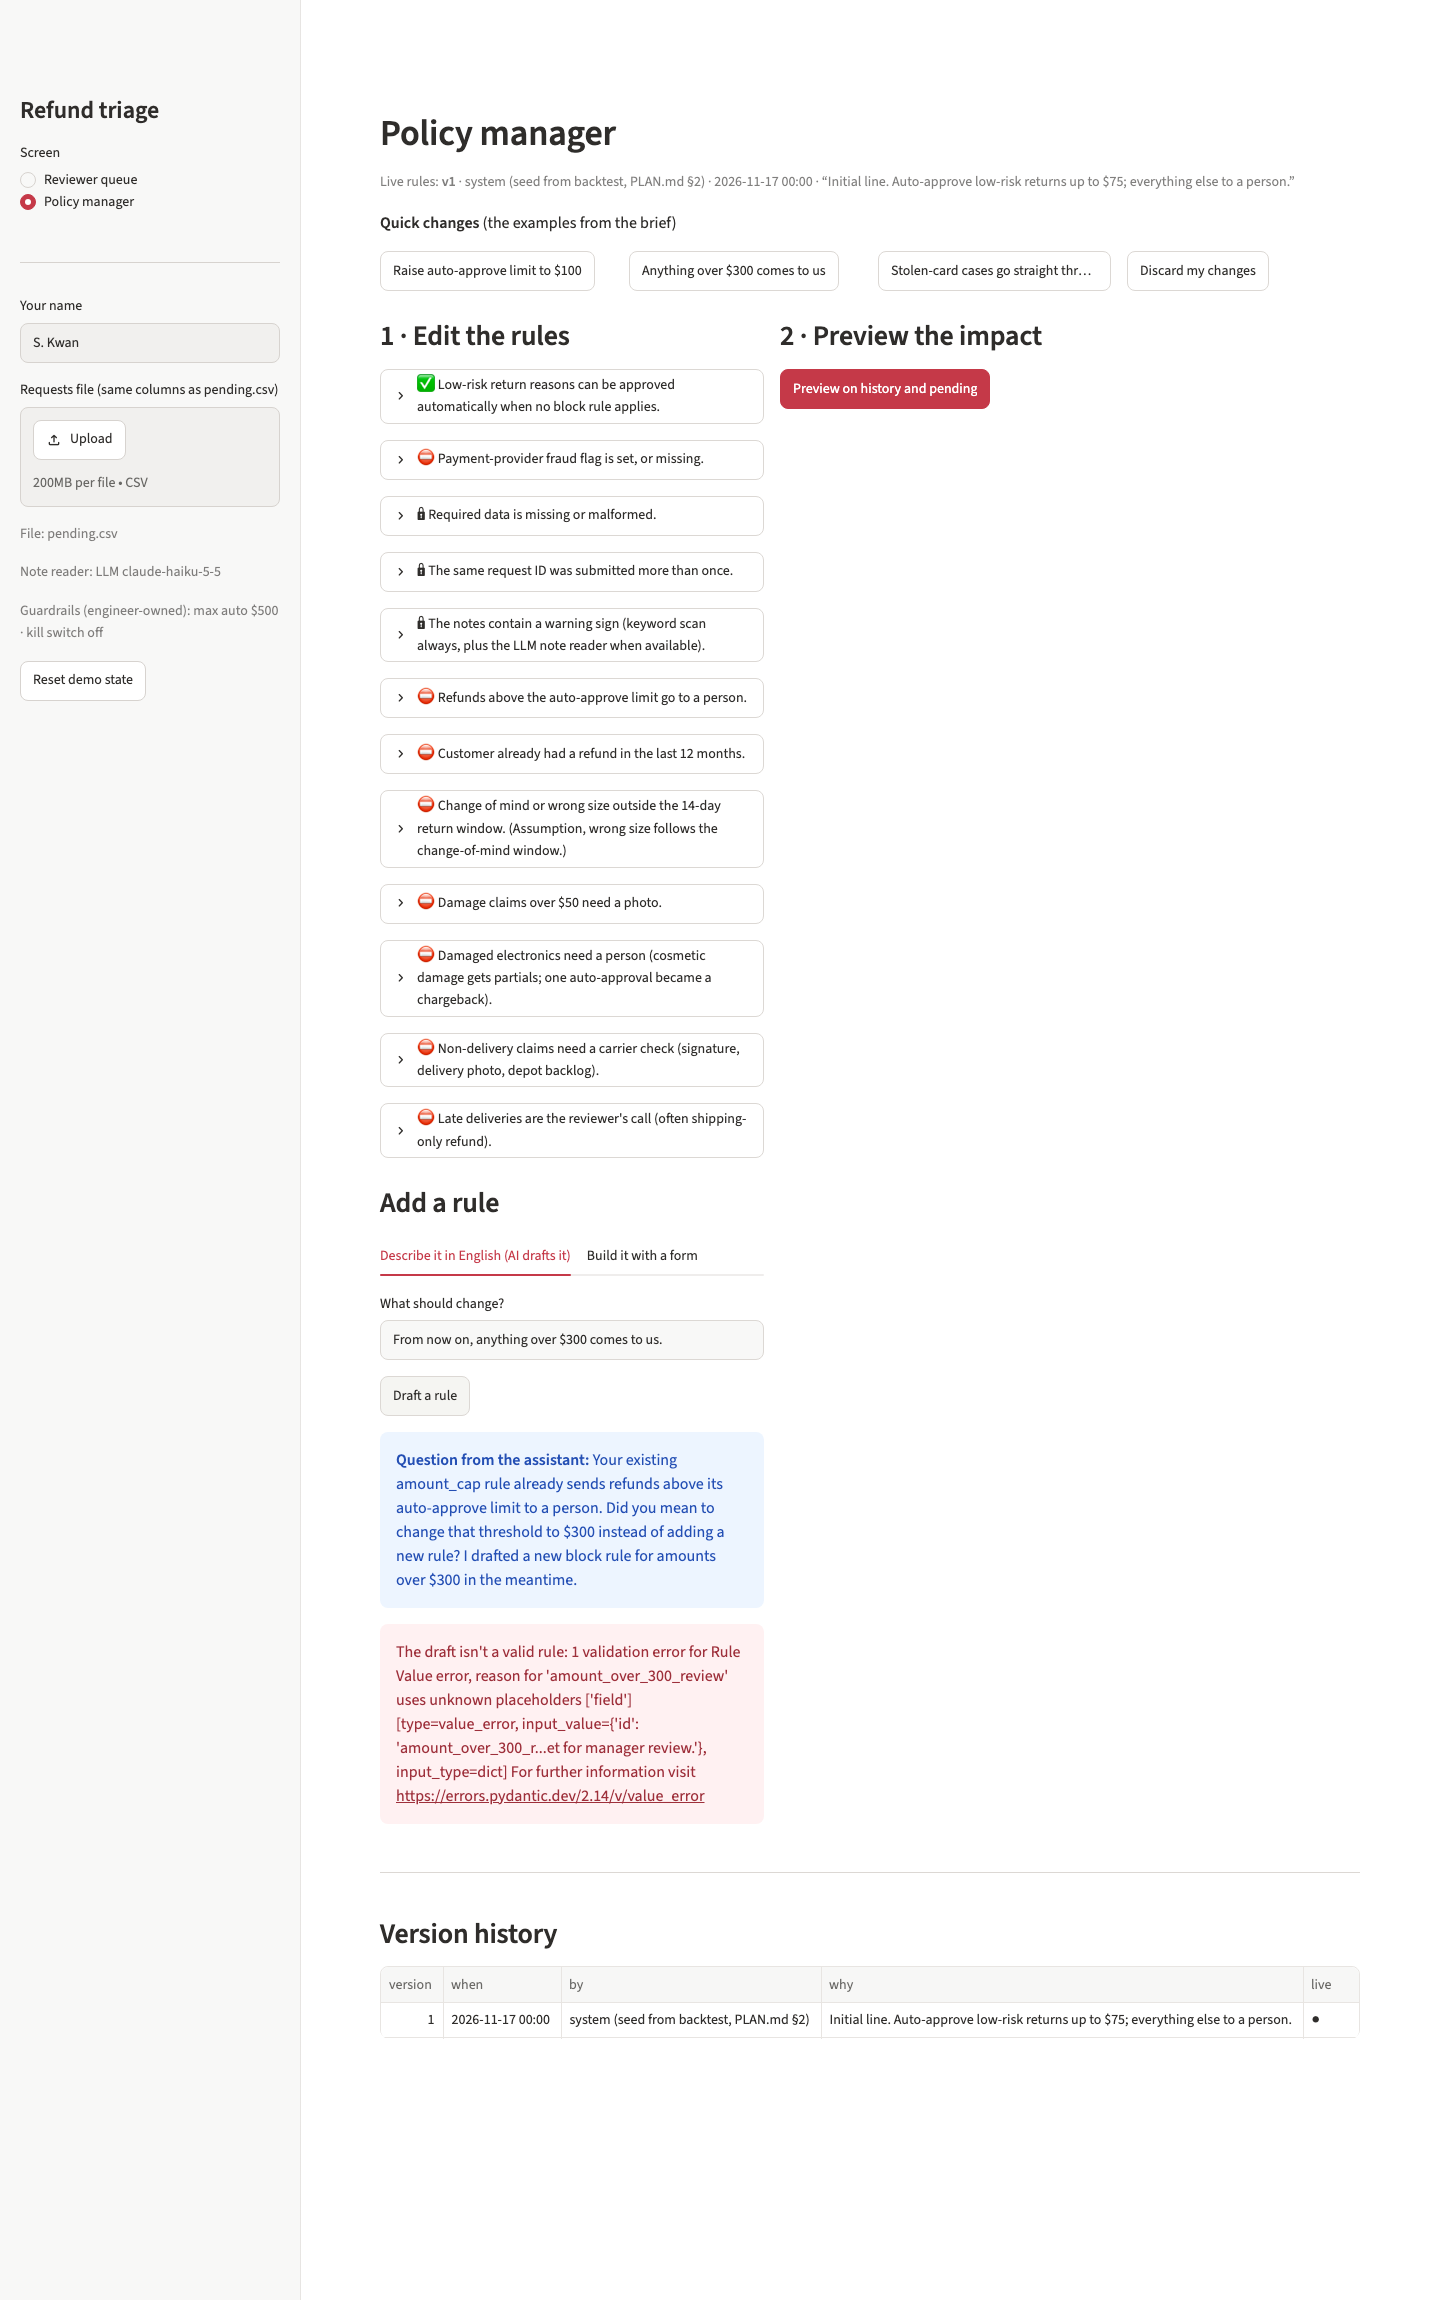
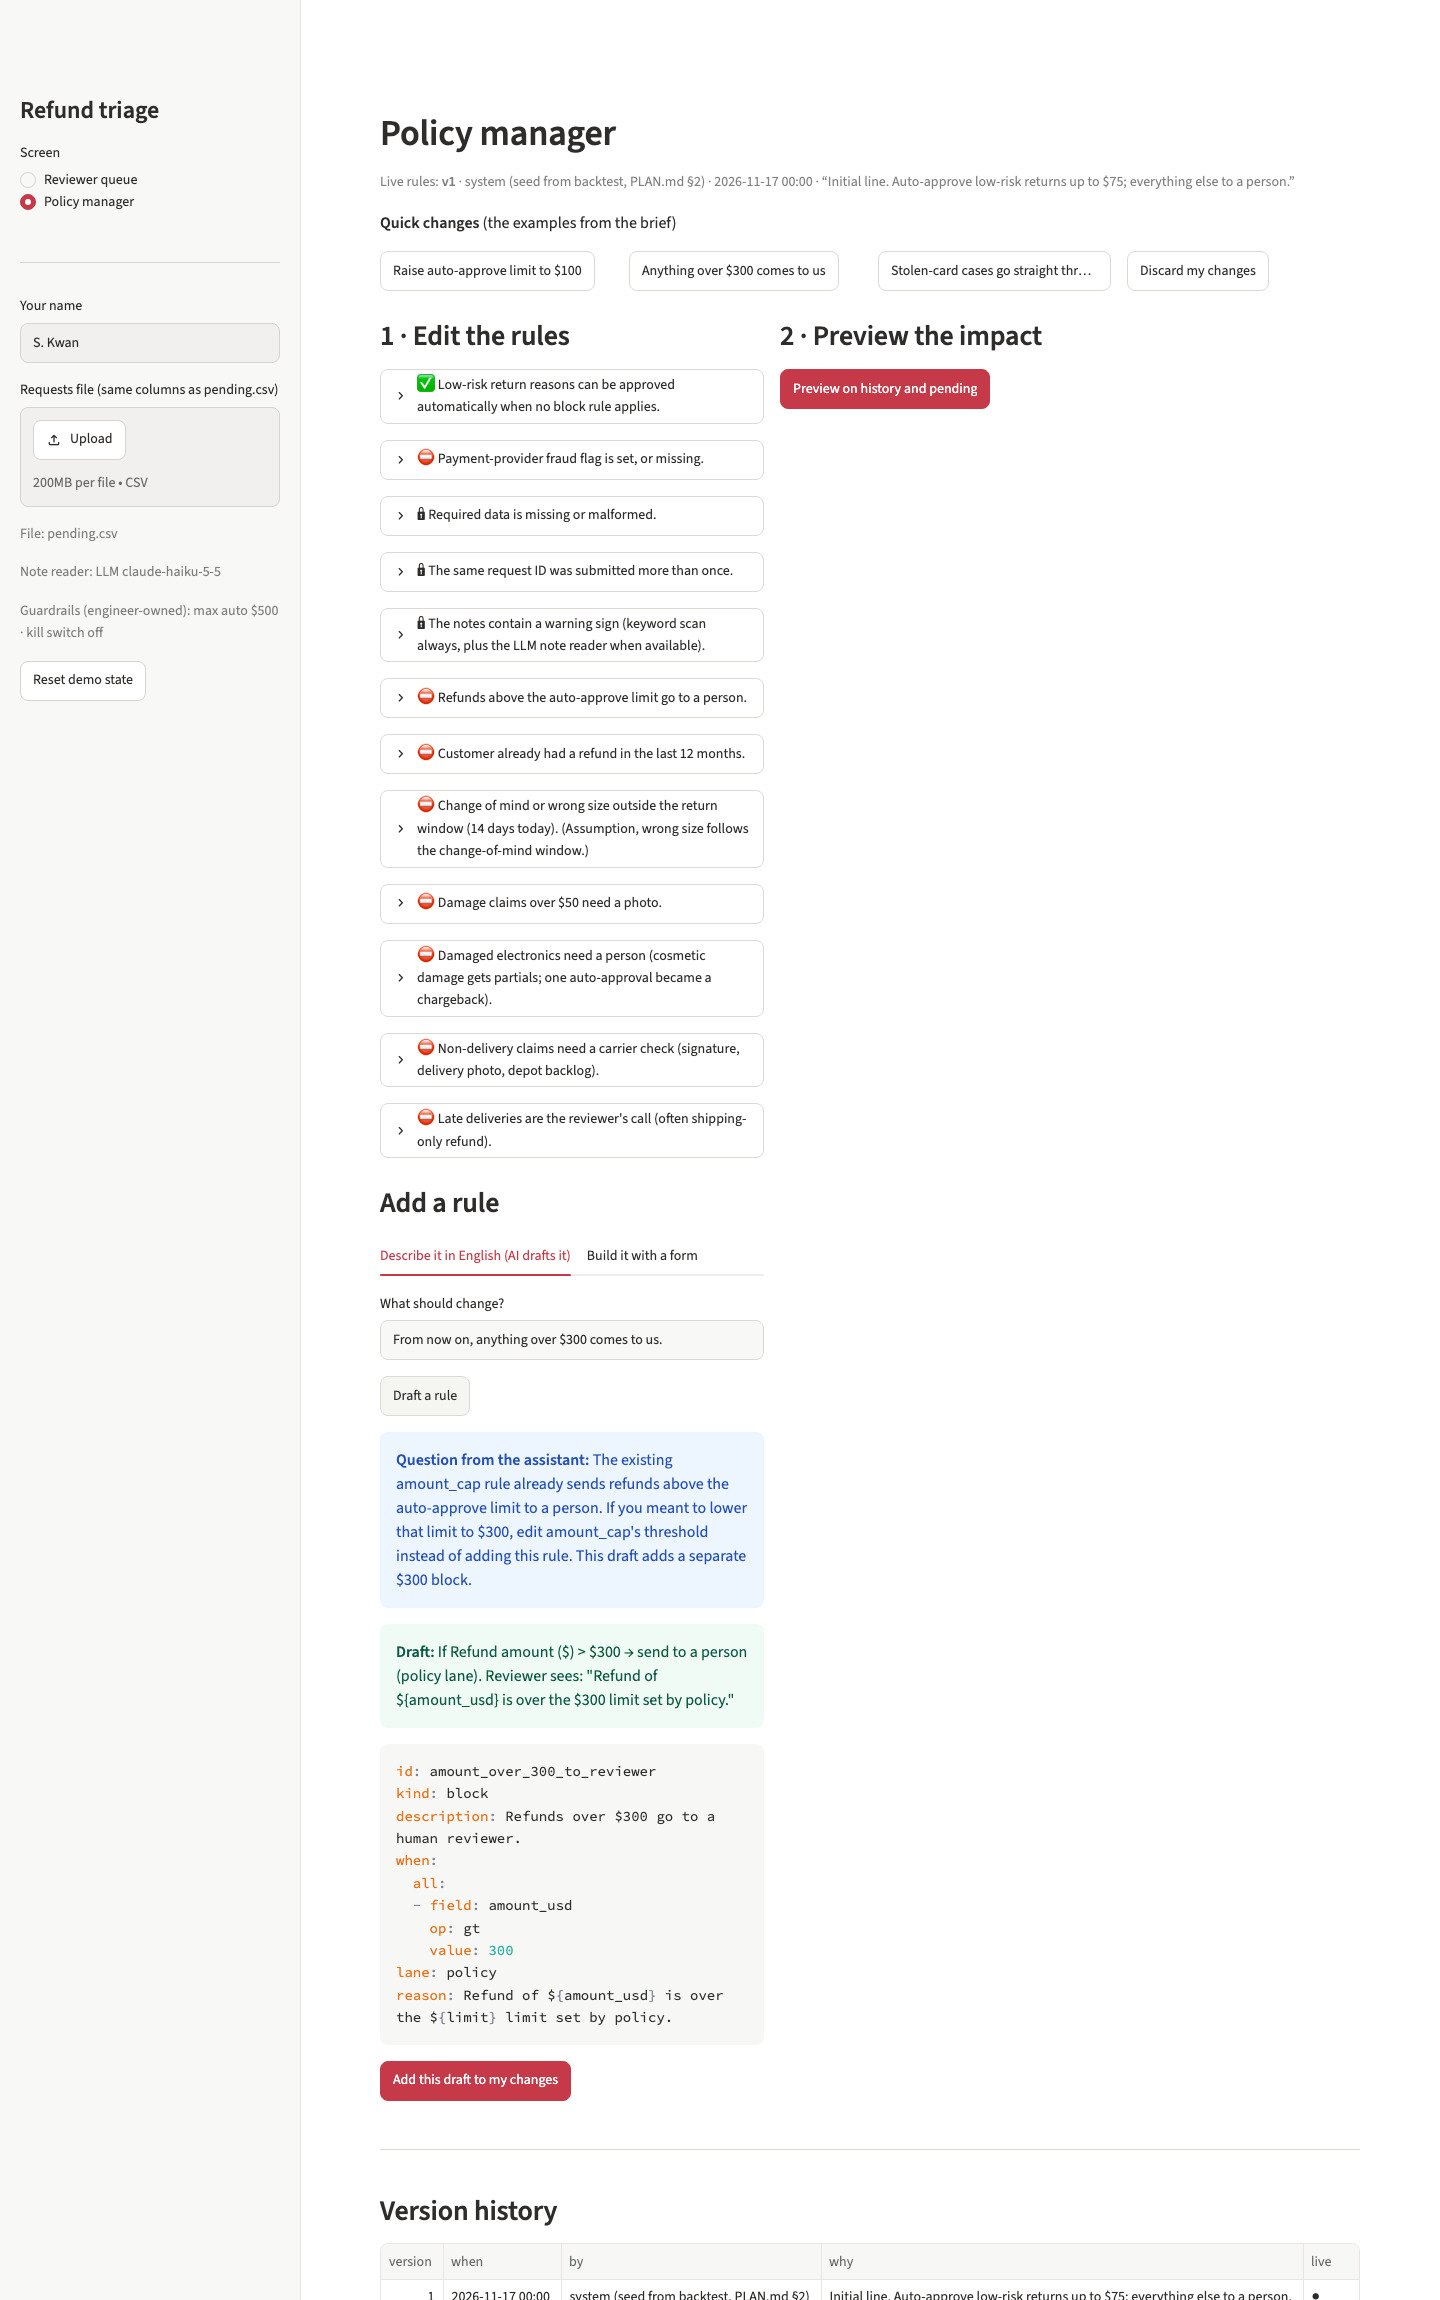
Preview labels: rule names in warnings, shorter minutes label; refreshed screenshots

diff --git a/src/refunds/preview.py b/src/refunds/preview.py
@@ -137,14 +137,15 @@ def warnings_for(current: RuleSet, draft: RuleSet) -> list[str]:
             src = FIELDS[c.field][1]
             if src is Source.DERIVED and c.field == "fraud_team_confirmed_stolen":
                 out.append(
-                    f"'{r.id}' depends on 'fraud team confirmed stolen', which is not a structured field: it is read "
+                    f"'{r.label}' depends on 'fraud team confirmed stolen', which is not a structured field: it is read "
                     "from the support agent's note with a strict phrase match. History has no such notes, so the "
                     "history preview is also shown with a labelled proxy (outcome notes)."
                 )
             elif src is Source.LLM and r.kind == "eligible":
-                out.append(f"'{r.id}' uses LLM-extracted '{c.field}' to approve; LLM output should only block.")
+                out.append(f"'{r.label}' uses LLM-extracted '{c.field}' to approve; LLM output should only block.")
         if r.kind == "eligible" and r.overrides:
-            out.append(f"'{r.id}' lets through cases normally blocked by: {', '.join(r.overrides)}.")
+            names = [cur_ids[o].label if o in cur_ids else o for o in r.overrides]
+            out.append(f"'{r.label}' lets through cases normally blocked by: {', '.join(names)}.")
     return out
 
 

diff --git a/app/streamlit_app.py b/app/streamlit_app.py
@@ -334,7 +334,7 @@ def show_preview(p):
             c[0].metric("Newly auto, went wrong before", len(ds.newly_auto_bad))
             weeks = p.history_weeks
             per_week = f"≈ {ds.minutes_saved / weeks:.0f} min / week" if weeks and ds.minutes_saved else None
-            c[1].metric(f"Reviewer minutes saved (over ≈{weeks:.0f} weeks of history)" if weeks else "Reviewer minutes saved",
+            c[1].metric(f"Reviewer minutes saved (≈{weeks:.0f} wks)" if weeks else "Reviewer minutes saved",
                         f"{ds.minutes_saved:.0f}", per_week, delta_color="off", delta_arrow="off")  # fmt: skip
         if ds.changes:
             box.dataframe(pd.DataFrame([{
